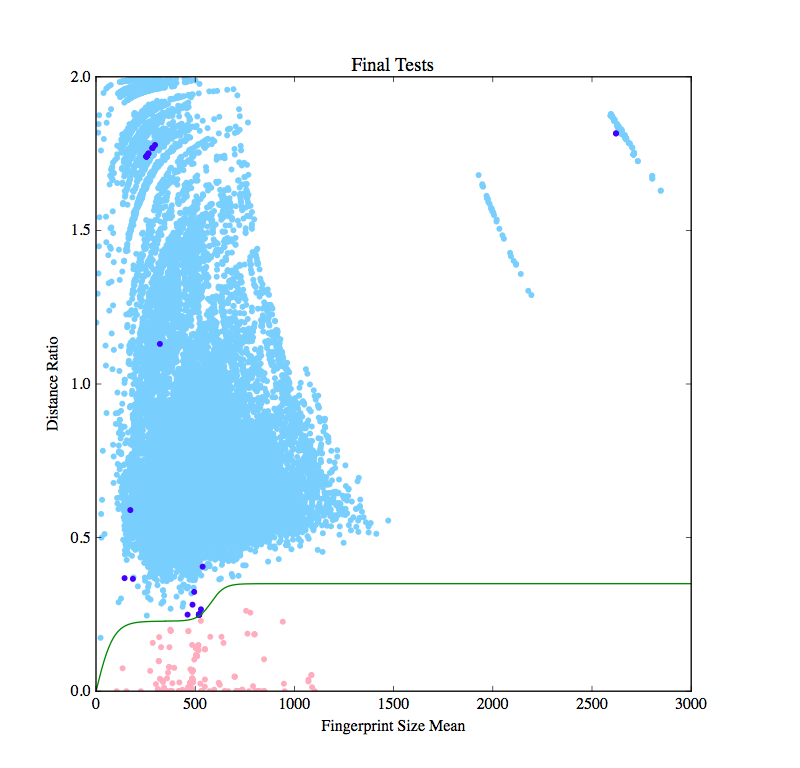
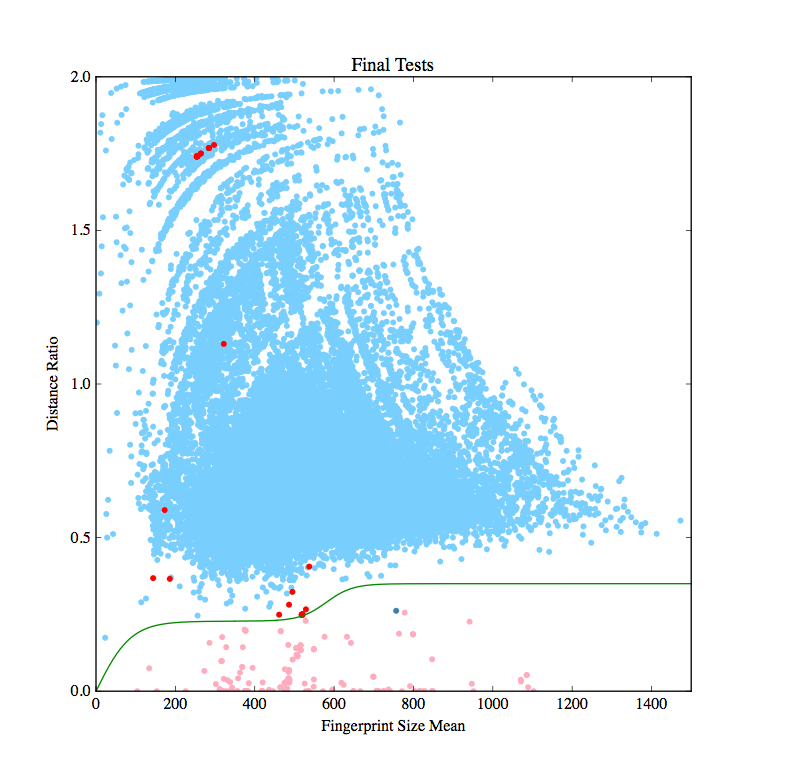
Improve plotting

diff --git a/plot.py b/plot.py
@@ -20,24 +20,18 @@ X     = 'Size'
 Y     = 'DistRatio'
 
 sample = sys.argv[1]
+cumulative_samples = ['all', 'final']
 
 data = pd.read_csv('data/{}/data.tsv'.format(sample), sep='\t')
 
 data[Right] = data.apply(lambda row: row[Guess] == row[Ans], axis=1)
-
-cumulative_samples = ['all', 'final']
-if sample in cumulative_samples:
-    #data = data[data[X] < 2000]
-    data = data[(~data[Right] & data[Guess]) | (data[X] < 3000)]
-    #data = data[data[Right] | data[Guess]]
-    pass
 data.sort([Right, Ans], ascending=[0, 0], inplace=True)
 
 color = np.matrix([
-    ['blue', 'lightskyblue'],
-    ['red', 'lightpink'],
+    ['steelblue', 'red'],
+    ['lightskyblue', 'lightpink'],
 ])
-data[Color] = data.apply(lambda row: color[row[Guess], row[Right]], axis=1)
+data[Color] = data.apply(lambda row: color[row[Right], row[Ans]], axis=1)
 
 plot.scatter(data[X], data[Y], c=data[Color], edgecolor='none')
 
@@ -45,6 +39,8 @@ xmin, xmax = plot.xlim()
 ymin, ymax = plot.ylim()
 if xmin < 0:
     xmin = 0
+if sample in cumulative_samples:
+    xmax = min(xmax, 1500)
 if ymin < 0:
     ymin = 0
 if ymax > 2:
